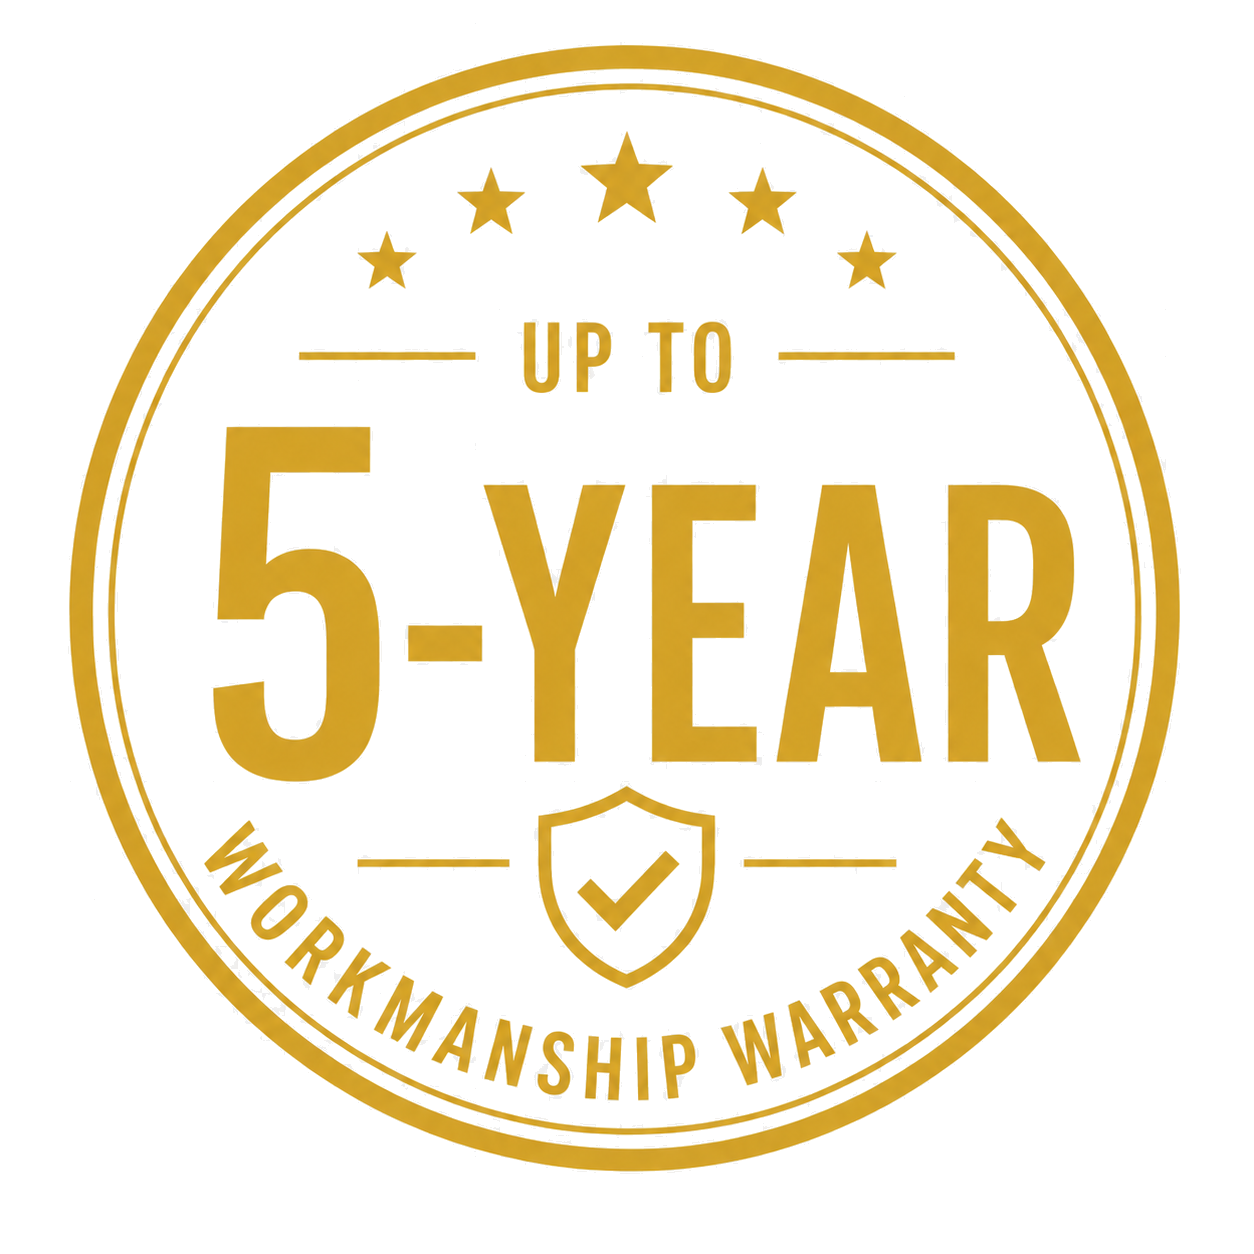
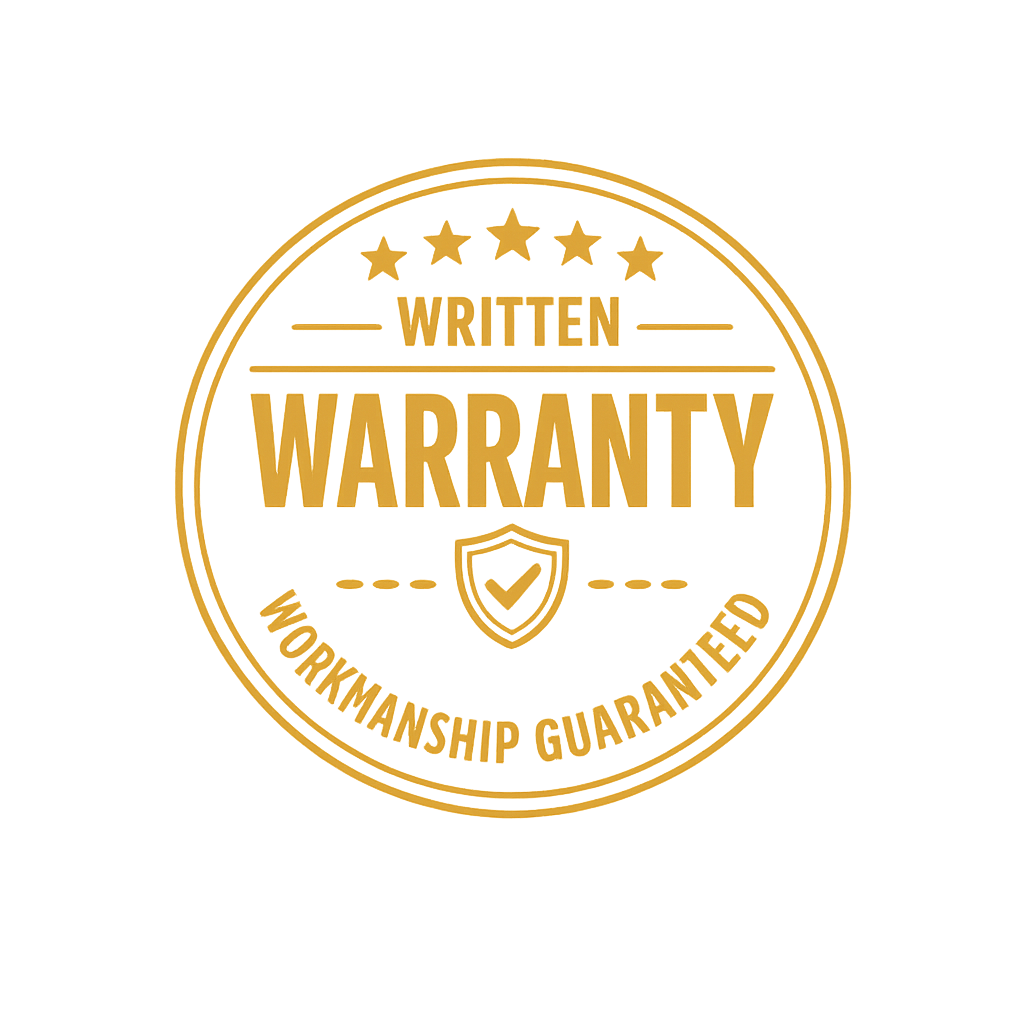
fix: use uploaded transparent warranty badge PNG

Changed region(s): [[0.0312, 0.0312, 0.9688, 0.9375]]

diff --git a/components/HeroSection.js b/components/HeroSection.js
@@ -1,7 +1,6 @@
 import Link from 'next/link';
 import { useEffect, useRef } from 'react';
 import InteractiveHouse from './InteractiveHouse';
-import WarrantyBadge from './WarrantyBadge';
 import WordCycler from './WordCycler';
 import { VerticalCutReveal } from './ui/VerticalCutReveal';
 import styles from '../styles/Home.module.css';
@@ -183,7 +182,8 @@ export default function HeroSection({
                 {t.viewOurWork}
               </Link>
             </div>
-            <WarrantyBadge size={121} />
+            {/* eslint-disable-next-line @next/next/no-img-element */}
+            <img src="/warranty-badge.png" alt="Written workmanship warranty seal" width={121} height={121} style={{ display: 'block', flexShrink: 0 }} />
           </div>
 
           <div className={styles.heroReviewBlock} data-hero-fade>
